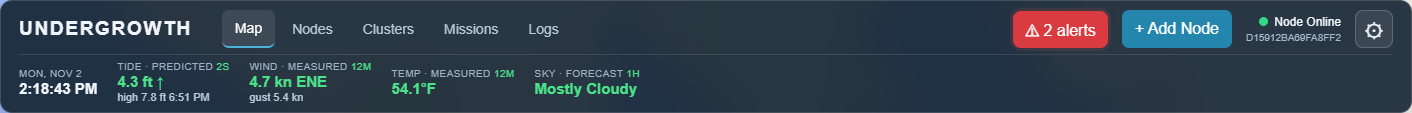
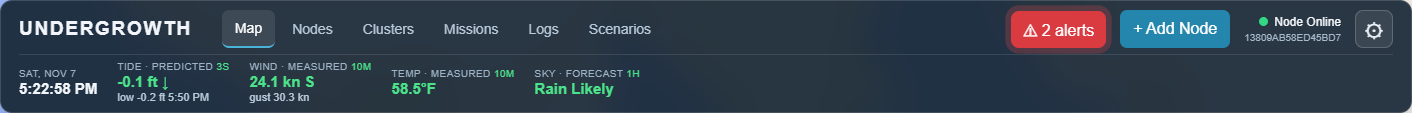
Bring the guide up to date with scenarios
- Vessels and missions: when a route is used, arriving, marking a mission
  complete, and a new section on taking a boat in tow.
- Logs: how to read an event from the log, using a capsize test.
- Safety watches and manual override: an alert turns amber until someone
  acknowledges it, and a tipping alert takes up to about ten seconds.
- Sharing: sharing is off for a screen that is in a scenario.
- Pages that said "the demo" now name The whole farm scenario, and point
  to the scenario that shows each feature.
- Pictures retaken, now showing Scenarios in the top bar.

diff --git a/vessels-and-missions.md b/vessels-and-missions.md
@@ -4,7 +4,8 @@
 
 ## A vessel is a cluster of parts
 
-Click a vessel and its panel lists what it is made of. In the demo, *Big Toot*
+Click a vessel and its panel lists what it is made of. In *The whole farm*
+scenario, *Big Toot*
 has a GPS, a motor controller, a latch, a solar panel, a tilt sensor, a computer
 and a radio. The vessel's position comes from its GPS, and every other part
 follows it.
@@ -38,8 +39,39 @@ vessel up, put it down anywhere, and the advice follows:
 
 (Dragging needs the vessel's position to be under [manual override](manual-override.md).)
 
+A route is only used when it helps. Near the route, the plan joins it and
+follows it. Out in open water, far from it, the plan heads straight for the
+target instead.
+
+When the vessel is close enough, the advice changes to **Arrived — hold
+position**. The mission doesn't finish by itself: press **Mark complete** on
+the Missions page when the job is done.
+
 When the decision changes (a new heading, a new next waypoint, a keep-out to
-avoid), the reason and the inputs it was based on are written to
+avoid, arriving), the reason and the inputs it was based on are written to
 [Logs](logs-and-history.md).
 
 ![Missions page](images/missions.png)
+
+The *Boat to a basket* [scenario](built-in-scenarios.md) has one boat, one
+route and one keep-out to try all of this on.
+
+## Taking a boat in tow
+
+Sometimes two boats become one: a boat with a failed engine is towed home, or
+a barge is pushed along by a skiff. Undergrowth does this with two edits:
+
+1. **Make the towed boat part of the other.** Open the boat doing the towing,
+   press **Edit**, and tick the towed boat under **Cluster Members**.
+2. **Give the towed boat the other's position.** Open the towed boat, press
+   **Edit**, press **＋** next to **Position**, tick the boat doing the towing,
+   untick the towed boat's own GPS, and save.
+
+Now the towed boat goes wherever the other goes. Safety watches treat it as a
+part of the boat doing the towing, so being alongside doesn't set off a
+too-close alarm. To cast off, undo both edits.
+
+A boat sent on a mission to another boat is never warned about getting close
+to it, so a rescue boat can come alongside without an alarm. Once the mission
+is marked complete, the two are just boats again until they are joined. The
+*Rescue* [scenario](built-in-scenarios.md) walks through all of this.

diff --git a/README.md b/README.md
@@ -31,12 +31,12 @@ and history, and anything already mounted on it becomes its first parts.
 | [Built-in scenarios](built-in-scenarios.md) | Small ready-made examples to try, apart from your real records |
 | [Walkthroughs](scenarios.md) | Building a boat and a crab tank from scratch, step by step |
 | [The map and conditions](map-and-conditions.md) | The map, map styles, and live tide, wind and weather |
-| [Vessels and missions](vessels-and-missions.md) | Vessels and their parts, routes, keep-outs and navigate missions |
+| [Vessels and missions](vessels-and-missions.md) | Vessels and their parts, routes, keep-outs, navigate missions, and taking a boat in tow |
 | [Radios and connections](radios-and-connections.md) | Which radios can reach each other, and which are connected |
 | [Manual override](manual-override.md) | Setting a position or reading by hand to test things |
 | [Tanks and controls](tanks-and-controls.md) | Sensor readings, readings typed in by hand, switches and buttons |
 | [Safety watches](safety-watches.md) | Alerts for tipping, getting too close, tank temperature and quiet sensors |
-| [Logs and history](logs-and-history.md) | The record of everything that happened |
+| [Logs and history](logs-and-history.md) | The record of everything that happened, and how to read it |
 | [Sharing between computers](sharing.md) | Each boat's own computer, read-only copies, and the ESP32 boards |
 
 ## Map symbols
@@ -56,6 +56,8 @@ and history, and anything already mounted on it becomes its first parts.
 ## Not built yet
 
 - Boats steering themselves. Missions give advice and a person still drives.
+- A single button for taking a boat in tow. Today it takes
+  [two edits](vessels-and-missions.md#taking-a-boat-in-tow).
 - Sharing missions between computers. Records, readings and logs are already
   shared; [Sharing between computers](sharing.md) lists what else is missing.
 

diff --git a/safety-watches.md b/safety-watches.md
@@ -6,7 +6,7 @@ A safety watch is a mission that never finishes. Every 5 seconds, whether or not
 anyone has the dashboard open, it checks one condition and raises an alert for
 each thing that breaks it.
 
-| Watch | Raises an alert when | Demo example |
+| Watch | Raises an alert when | Example in *The whole farm* |
 |---|---|---|
 | **A reading goes out of range** | a number goes below a low limit or above a high limit. Pointed at a cluster, it covers every part inside that has that reading. | Water temperature outside 42–60 °F in every crab tank; roll beyond ±35° on each vessel. |
 | **Too close** | a vessel comes inside any keep-out distance: hazards, baskets, and other vessels. It ignores the vessel's own parts and wherever its mission is sending it. | Lil Toot too close to a sandbar. |
@@ -40,7 +40,10 @@ has gone away, so nothing is missed because it fixed itself.
 
 Use [manual override](manual-override.md): drag a vessel into a keep-out, set a
 roll of 60°, or set a tank's water temperature to 38 °F, and watch the alert
-appear, marked *(set by hand)*. Release the override and the alert clears.
+appear, marked *(set by hand)*. Set it back, or release the override, and the
+alert turns amber until someone acknowledges it. The *Capsize test*, *Crab tank
+goes cold* and *Rescue* [scenarios](built-in-scenarios.md) each set one up to
+try.
 
 Every alert, clearing and acknowledgement is written to
 [Logs](logs-and-history.md) under *safety* with the readings that caused it.

diff --git a/logs-and-history.md b/logs-and-history.md
@@ -24,6 +24,27 @@ the reading or distance that set it off, and the position at the time:
 
 <img src="images/log-details.png" width="620" alt="Details of a proximity alert">
 
+## Reading the story of an event
+
+The newest entries are at the top, so read from the bottom up. This is a
+[capsize test](built-in-scenarios.md#capsize-test) in the order it happened:
+
+| Category | What the log says |
+|---|---|
+| mission | Safety watch created: *Test Skiff tipping* |
+| override | Manual override on: Test Skiff tilt sensor Roll (real readings still recorded) |
+| safety | ⚠ Test Skiff tilt sensor: Roll 60°, above 35° (set by hand) |
+| safety | Cleared (condition gone): the boat is upright again |
+| safety | Acknowledged: a person has seen the alert |
+| override | Manual override off: Roll back to real readings |
+
+From those few lines, anyone can tell:
+
+- that it was a test, set by hand, not a real capsize;
+- how long the boat was over;
+- that someone saw the alarm, and when;
+- that the real sensor was back in charge afterwards.
+
 ## Where it is stored
 
 Undergrowth keeps two databases on each computer:

diff --git a/tanks-and-controls.md b/tanks-and-controls.md
@@ -18,7 +18,7 @@ Typed numbers are only sent when you press **Send** / **Record** or Enter, so
 
 ## Tank houses
 
-The demo adds two tank houses: **Crab tanks** (10 tanks) and **Oyster tanks**
+*The whole farm* scenario has two tank houses: **Crab tanks** (10 tanks) and **Oyster tanks**
 (8 tanks). Each tank has:
 
 - a **floating thermometer** (Bluetooth/Zigbee pool thermometer): water
@@ -37,8 +37,11 @@ Switching a heater on and recording a salinity reading:
 
 ![Heater on and a salinity reading](images/heater-and-reading.gif)
 
-In the demo no real plug is connected, so the row says *Sent On · device reports
+In a scenario no real plug is connected, so the row says *Sent On · device reports
 Off*. With a real plug, the device's report would follow.
+
+The *Crab tank goes cold* [scenario](built-in-scenarios.md) switches a heater off
+and lets a tank go cold, to see what happens on a winter night.
 
 ## Changing what a panel shows
 

diff --git a/built-in-scenarios.md b/built-in-scenarios.md
@@ -76,8 +76,8 @@ Wi-Fi hears, as it would once it lost the dock:
 - **Wi-Fi:** the link drops.
 - **LoRa:** reaches much further, so it holds.
 
-Back near the dock, the Wi-Fi link shows as *in range*: the two radios could
-connect, but nothing says they have.
+Back near the dock, the Wi-Fi link comes back as a dotted line, meaning *in
+range*: the two radios could connect, but nothing says they have.
 
 More on this: [Radios and connections](radios-and-connections.md).
 
@@ -98,7 +98,7 @@ Then you join them into one vessel, in two edits:
 2. **Give Lil Toot Big Toot's position.** Wherever Big Toot goes, Lil Toot
    goes too, the way a boat under tow does.
 
-More on this: [Vessels and missions](vessels-and-missions.md),
+More on this: [Taking a boat in tow](vessels-and-missions.md#taking-a-boat-in-tow),
 [Safety watches](safety-watches.md).
 
 ## The whole farm

diff --git a/radios-and-connections.md b/radios-and-connections.md
@@ -68,6 +68,9 @@ To see what happens when a link drops or appears, tick **Override** next to
 [manual override](manual-override.md), so the change is marked *set by hand*
 and the real reports keep being recorded.
 
-In the demo, Big Toot hears the dock on both Wi-Fi and LoRa. Lil Toot is within
+In *The whole farm* scenario, Big Toot hears the dock on both Wi-Fi and LoRa. Lil Toot is within
 LoRa range of the dock and of Big Toot but has not connected, so those lines
 are dotted.
+
+The *Out of radio range* [scenario](built-in-scenarios.md) takes a boat out of
+Wi-Fi reach step by step, so you can watch a link drop while LoRa holds.

diff --git a/sharing.md b/sharing.md
@@ -50,6 +50,10 @@ A computer only shares with others if it is listening on the network: start
 its node service with `UG_HOST=0.0.0.0`. There is no password yet, so only do
 that on a network you trust.
 
+While a screen is in a [scenario](built-in-scenarios.md), **⚙** says sharing
+is off. Nothing in a scenario is shared, but the real records on that same
+computer keep sharing as usual underneath.
+
 ## The computers on a boat
 
 A boat carries a Raspberry Pi 4 on a battery pack. The crew's phone is the

diff --git a/manual-override.md b/manual-override.md
@@ -51,8 +51,10 @@ back.
 
 ## Example: testing a capsize
 
-Override *Big Toot*'s roll, set it to 60°, and three seconds later the
-[tipping watch](safety-watches.md) raises an alert, marked *(set by hand)*:
+Override *Big Toot*'s roll and set it to 60°. The
+[tipping watch](safety-watches.md) wants the boat over for three seconds and
+checks every five, so within about ten seconds it raises an alert, marked
+*(set by hand)*:
 
 ![Setting roll to 60° raises a tip alert](images/tip-alert.gif)
 

diff --git a/map-and-conditions.md b/map-and-conditions.md
@@ -60,7 +60,7 @@ Under the zoom buttons, from the top:
 
 A lit button means that layer is showing. Each device remembers its choices.
 
-<img src="images/map-styles.png" width="560" alt="The demo fleet on satellite imagery, with the map style menu open">
+<img src="images/map-styles.png" width="560" alt="The whole farm on satellite imagery, with the map style menu open">
 
 ## Clicking things
 

diff --git a/scenarios.md b/scenarios.md
@@ -115,7 +115,7 @@ were written to **Logs** (category *mission*), marked as set by hand:
 
 ## 2. A new crab tank
 
-The demo's crab tank house has 10 tanks. We add an eleventh: the tank, its floating
+The crab tank house in *The whole farm* has 10 tanks. We add an eleventh: the tank, its floating
 thermometer and its heater plug, and put it in the tank house.
 
 ### Step 1: the tank
